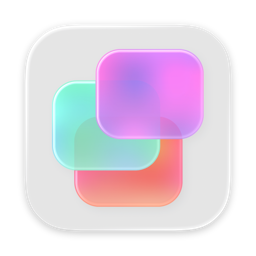
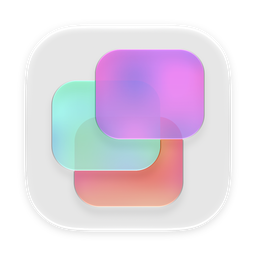
feature/bigger-badge: Make the badge bigger
Scale the badge's height, font size, padding and border by 1.5 so it's
easier to see. It stays anchored to the bottom right corner, inside the
mask's rounded corner, which a new test checks.

Regenerate the README icons from MindFlow and KeepReceipt.

diff --git a/Tests/BlueprintCoreTests/BlueprintCoreTests.swift b/Tests/BlueprintCoreTests/BlueprintCoreTests.swift
@@ -73,6 +73,16 @@ import Testing
         #expect(layout.cornerRadius == layout.frame.height / 2)
     }
 
+    @Test func badgeStaysInsideTheRoundedCornerOfTheMask() {
+        let layout = BadgeLayout(measure: measure(characterCount: 3))
+        let maskCornerRadius: CGFloat = 230
+        let maskCornerCenter = CGPoint(x: 1024 - maskCornerRadius, y: maskCornerRadius)
+        let badgeCornerCenter = CGPoint(x: layout.frame.maxX - layout.cornerRadius, y: layout.frame.minY + layout.cornerRadius)
+
+        let distance = hypot(badgeCornerCenter.x - maskCornerCenter.x, badgeCornerCenter.y - maskCornerCenter.y)
+        #expect(distance + layout.cornerRadius <= maskCornerRadius)
+    }
+
     @Test func textIsInTheMiddleOfTheBadge() {
         let layout = BadgeLayout(measure: measure(characterCount: 30))
 
@@ -122,7 +132,7 @@ import Testing
     @Test func badgeImageIsWhiteInsideTheBadgeAndClearOutside() throws {
         let image = try painter(text: "DEV").image(side: 1024)
 
-        let besideTheText = rgba(of: image, x: Int(BadgeLayout.rightEdge) - 24, y: 1024 - Int(BadgeLayout.bottomEdge) - 92)
+        let besideTheText = rgba(of: image, x: Int(BadgeLayout.rightEdge) - 24, y: 1024 - Int(BadgeLayout.bottomEdge + BadgeLayout.singleLineHeight / 2))
         let topLeft = rgba(of: image, x: 100, y: 100)
         #expect(besideTheText == [255, 255, 255, 255])
         #expect(topLeft == [0, 0, 0, 0])

diff --git a/Sources/BlueprintCore/Badge/BadgeLayout.swift b/Sources/BlueprintCore/Badge/BadgeLayout.swift
@@ -10,12 +10,12 @@ package struct BadgeLayout {
 
     // MARK: - Measurements
 
-    static let singleLineHeight: CGFloat = 184
-    static let fullFontSize: CGFloat = 112
+    static let singleLineHeight: CGFloat = 276
+    static let fullFontSize: CGFloat = 168
     static let smallestFontSize: CGFloat = 8
     static let shrinkStep: CGFloat = 0.9
-    static let horizontalPadding: CGFloat = 56
-    static let verticalPadding: CGFloat = 24
+    static let horizontalPadding: CGFloat = 84
+    static let verticalPadding: CGFloat = 36
     static let rightEdge: CGFloat = 944
     static let leftLimit: CGFloat = 80
     static let bottomEdge: CGFloat = 160

diff --git a/Sources/BlueprintCore/Badge/BadgePainter.swift b/Sources/BlueprintCore/Badge/BadgePainter.swift
@@ -19,7 +19,7 @@ package struct BadgePainter {
     }
 
     private static let pixelsPerPoint = 2.0
-    private static let borderWidth: CGFloat = 8
+    private static let borderWidth: CGFloat = 12
 
     // MARK: - Images
 
